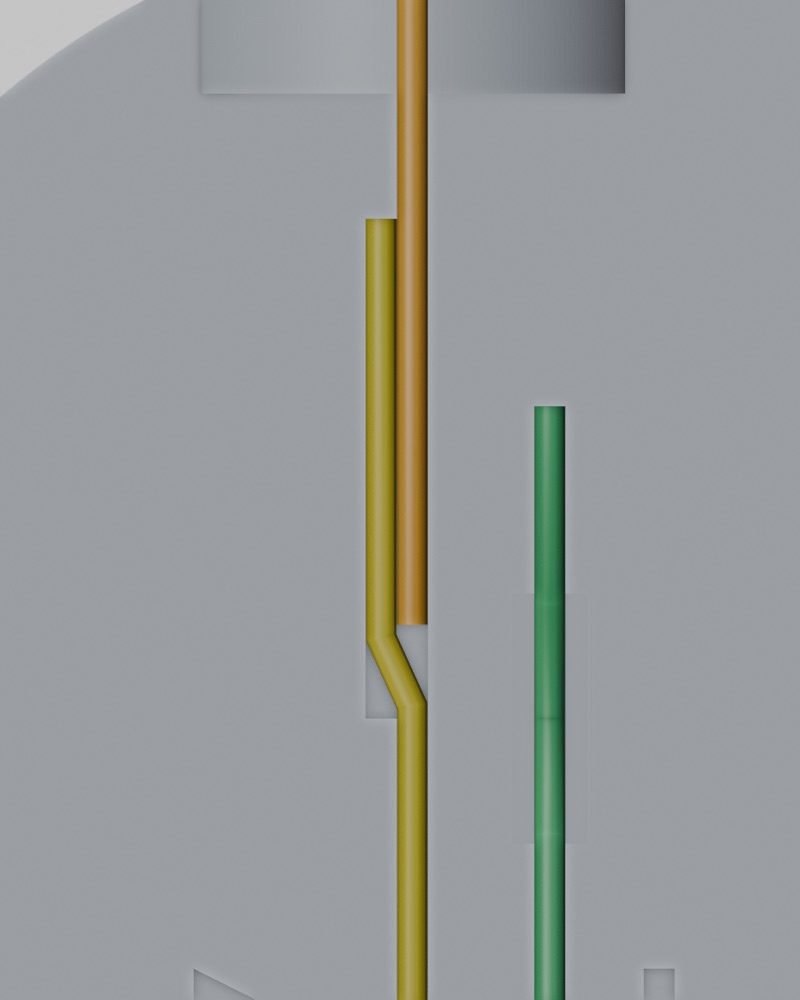
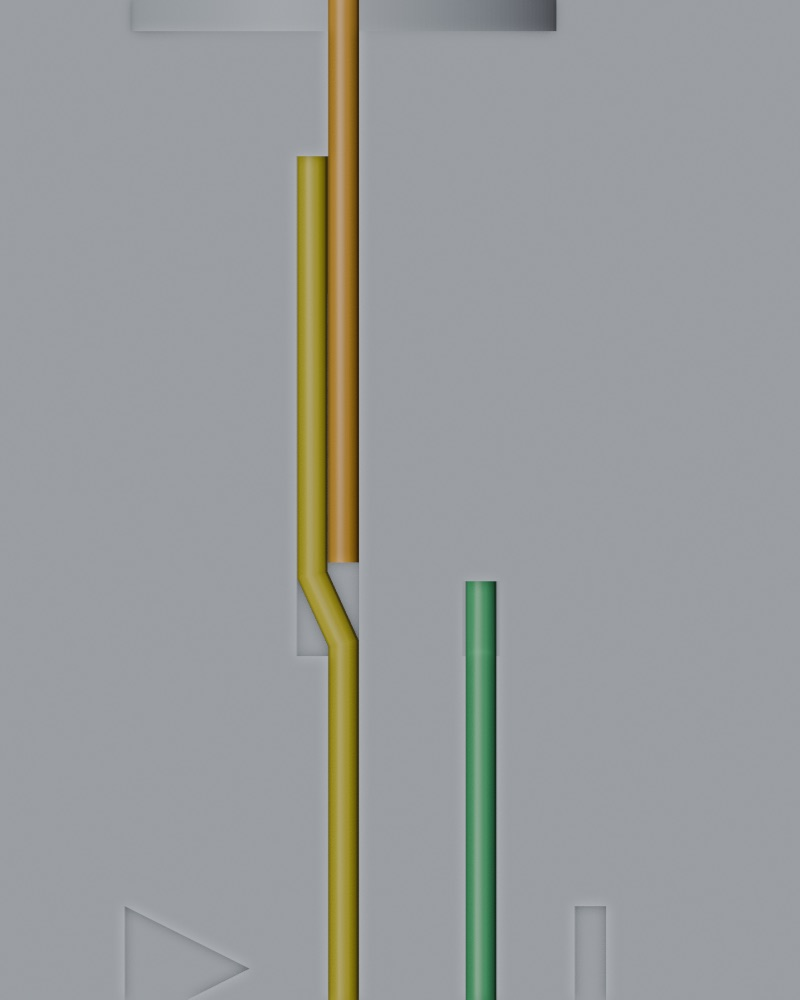
철사 B (−) 접점을 천장 홈 선 접촉으로 변경
V자 창은 철사를 붙잡을 곳이 없고, ㄱ자 핀 구멍은 한 점만 닿아 접촉이 부족했다.
철사 B가 통과 구멍(0.6 x 1.2mm)을 비스듬히 지나 포켓 천장 안쪽 접촉 홈
(폭 0.6, 깊이 0.45, 길이 4.4mm)에 눕고, 배터리 (−) 면에 선으로 닿는다.

- cad/: 통과 구멍 + 천장 접촉 홈, 검사에 통과 구멍 크기와 (−) 접촉 길이 추가
- docs/assembly.md, README: 계단(크랭크) 꺾기 조립법, 필요한 철사 길이
- docs/images: 철사 연결 그림 7장 다시 렌더링

diff --git a/cad/check_tester.py b/cad/check_tester.py
@@ -13,9 +13,9 @@ sys.path.insert(0, os.path.dirname(os.path.abspath(__file__)))
 
 import Mesh
 
-from params import (BACK_T, BATTERY_D, BATTERY_T, BOSS_TOP, GROOVE_W, INSULATION_MIN, LED_CLEAR,
-                    LED_FLANGE_D, LED_Z, NEG_SAFE_R, POCKET_CLEAR_D, POCKET_CLEAR_T, PROBE_SPACING,
-                    SEAT_DEPTH)
+from params import (BACK_T, BATTERY_D, BATTERY_T, BOSS_TOP, FRONT_T, GROOVE_DEPTH, GROOVE_W,
+                    INSULATION_MIN, LED_CLEAR, LED_FLANGE_D, LED_Z, NEG_CONTACT_LEN, NEG_PASS_LEN,
+                    NEG_PIN_W, NEG_SAFE_R, POCKET_CLEAR_D, POCKET_CLEAR_T, PROBE_SPACING, SEAT_DEPTH)
 
 ROOT = os.path.dirname(os.path.dirname(os.path.abspath(__file__)))
 STL = os.path.join(ROOT, "stl", "tester.stl")
@@ -92,7 +92,7 @@ try:
     expect("끝 B 홈 폭", b1 - b0, GROOVE_W)
     report.append(f"끝 A–B {spacing:.3f}")
 
-    # 철사 A·B 홈 아래 절연층, 그리고 (−) 면 창의 위치
+    # 철사 A·B 홈 아래 절연층, 그리고 (−) 접점 구멍의 위치
     xa, xb = -PROBE_SPACING / 2, PROBE_SPACING / 2
     lines = {"철사 A": xa + JIT, "철사 A 이음부": xa - GROOVE_W + JIT, "철사 B": xb + JIT}
     r_in = (BATTERY_D + POCKET_CLEAR_D) / 2 - 0.3
@@ -105,29 +105,49 @@ try:
             sp = spans(mesh, x, y, 0, "z")
             above = [s for s in sp if s[0] >= pocket_top - 0.05]
             if not above or above[0][0] > pocket_top + 0.05:
-                windows.append((name, x, y))       # 포켓 천장이 뚫린 곳 = 창
+                windows.append((name, x, y))       # 포켓 천장이 열린 곳 (철사 B의 통과 구멍·접촉 홈)
                 continue
             thinnest = min(thinnest, above[0][1] - above[0][0])
             at_least(f"{name} 절연층 (y={y:.2f})", above[0][1] - above[0][0], INSULATION_MIN)
     report.append(f"절연 최소 {thinnest:.2f}")
-
-    # 포켓 위 앞판을 관통하는 구멍은 (−) 면 안쪽(NEG_SAFE_R)의 창뿐이어야 한다
-    z_plate = pocket_top + 0.35
-    holes = 0
-    for i in range(int(2 * r_in / 0.2)):
-        y = -r_in + i * 0.2 + JIT
-        for x0, x1 in gaps(spans(mesh, 0, y, z_plate, "x")):
-            if abs(x0) > r_in or abs(x1) > r_in:
-                continue
-            holes += 1
-            far = max(math.hypot(x0, y), math.hypot(x1, y))
-            if far > NEG_SAFE_R:
-                raise AssertionError(f"앞판 구멍이 (−) 안전 반경 밖: ({x0:.2f}~{x1:.2f}, {y:.2f}) r={far:.2f}")
-    if not holes or not any(n == "철사 B" for n, _, _ in windows):
-        raise AssertionError("철사 B 선 위에 (−) 접점 창이 없음")
     if any(n != "철사 B" for n, _, _ in windows):
         raise AssertionError(f"철사 A 선에서 포켓이 드러남: {[w for w in windows if w[0] != '철사 B'][:3]}")
-    report.append(f"창 {holes}줄 ≤ r{NEG_SAFE_R:g}")
+
+    # ③ 철사 B 경로의 두 부분을 따로 잰다.
+    #  (1) 앞판을 관통하는 구멍: 철사 B 선 위의 통과 구멍 하나뿐, 폭 NEG_PIN_W, 길이 ≤ NEG_PASS_LEN
+    #      (큰 창에 V자로 꺾으면 붙잡을 곳이 없어 고정되지 않는다)
+    #  (2) 포켓 천장의 열린 곳: 전부 (−) 안전 반경 안, 철사 B 선을 따라 길이 NEG_PASS_LEN + NEG_CONTACT_LEN
+    #      (꽂힌 끝 한 점이 아니라 선으로 (−) 면에 닿아야 접촉이 충분하다)
+    groove_floor = pocket_top + FRONT_T - GROOVE_DEPTH
+    through = []
+    for i in range(int(2 * r_in / 0.1)):
+        y = -r_in + i * 0.1 + JIT
+        for x0, x1 in gaps(spans(mesh, 0, y, groove_floor - 0.1, "x")):
+            if abs(x0) > r_in or abs(x1) > r_in:
+                continue
+            if max(math.hypot(x0, y), math.hypot(x1, y)) > NEG_SAFE_R:
+                raise AssertionError(f"앞판 관통 구멍이 (−) 안전 반경 밖: ({x0:.2f}~{x1:.2f}, {y:.2f})")
+            if not x0 < xb < x1:
+                raise AssertionError(f"철사 B 선이 아닌 곳에 앞판 관통 구멍: ({x0:.2f}~{x1:.2f}, {y:.2f})")
+            expect(f"통과 구멍 폭 (y={y:.2f})", x1 - x0, NEG_PIN_W)
+            through.append(y)
+    if not through:
+        raise AssertionError("철사 B 선 위에 통과 구멍이 없음")
+    if max(through) - min(through) > NEG_PASS_LEN:
+        raise AssertionError(f"통과 구멍 길이가 {NEG_PASS_LEN}mm보다 김: {min(through):.2f}~{max(through):.2f}")
+
+    ceiling = pocket_top + 0.1
+    for i in range(int(2 * r_in / 0.2)):
+        y = -r_in + i * 0.2 + JIT
+        for x0, x1 in gaps(spans(mesh, 0, y, ceiling, "x")):
+            if abs(x0) > r_in or abs(x1) > r_in:
+                continue
+            if max(math.hypot(x0, y), math.hypot(x1, y)) > NEG_SAFE_R:
+                raise AssertionError(f"포켓 천장 열린 곳이 (−) 안전 반경 밖: ({x0:.2f}~{x1:.2f}, {y:.2f})")
+    run = max((g for g in gaps(spans(mesh, xb + JIT, 0, ceiling, "y")) if abs(g[0]) < r_in and abs(g[1]) < r_in),
+              key=lambda g: g[1] - g[0], default=(0, 0))
+    at_least("(−) 면 접촉 홈 길이 (통과 구멍 포함)", run[1] - run[0], NEG_PASS_LEN + NEG_CONTACT_LEN)
+    report.append(f"통과 구멍 {NEG_PIN_W:g}mm · (−) 접촉 {run[1] - run[0] - NEG_PASS_LEN:.1f}mm ≤ r{NEG_SAFE_R:g}")
 
     # LED 플랜지 자리 지름
     g = gap_at(spans(mesh, 0, BOSS_TOP - SEAT_DEPTH / 2 + JIT, LED_Z + JIT, "x"), xa)

diff --git a/cad/tester.py b/cad/tester.py
@@ -4,7 +4,7 @@
 #
 # 좌표는 params.py 참고. 인쇄는 뒷면(Z=0)을 바닥에 두고 눕혀서 한다.
 # 전류 경로: 배터리 뒷면(+) → ② 애노드 다리 → LED → ① 철사 A → 끝 A → 측정 대상 다이오드
-#            → 끝 B → 철사 B → ③ 창 → 배터리 앞면(−)
+#            → 끝 B → 철사 B → ③ 통과 구멍 → 천장 접촉 홈 → 배터리 앞면(−)
 import os
 import sys
 
@@ -15,8 +15,8 @@ import MeshPart
 import Part
 
 from params import (BACK_T, BATTERY_D, BATTERY_T, BOSS_TOP, FRONT_T, GROOVE_DEPTH, GROOVE_W,
-                    LED_CLEAR, LED_FLANGE_D, LED_Z, POCKET_CLEAR_D, POCKET_CLEAR_T, PROBE_SPACING,
-                    SEAT_DEPTH)
+                    LED_CLEAR, LED_FLANGE_D, LED_Z, NEG_CONTACT_LEN, NEG_PASS_LEN, NEG_PIN_W,
+                    POCKET_CLEAR_D, POCKET_CLEAR_T, PROBE_SPACING, SEAT_DEPTH)
 
 V = App.Vector
 ROOT = os.path.dirname(os.path.dirname(os.path.abspath(__file__)))
@@ -46,9 +46,8 @@ SPLICE_Y = (-1.0, 7.0)   # ① 압착 이음부: LED 캐소드 다리와 연장 
 ANODE_W = 0.8            # ② 애노드 다리 홈 폭
 ANODE_DEPTH = 0.45       # ② 뒷벽 안쪽 홈 깊이 (다리가 0.05mm 튀어나와 배터리를 누른다)
 ANODE_Y_END = -4.0
-WINDOW_W = 1.2           # ③ (−) 접점 창
-WINDOW_Y = (-3.0, 1.0)
-WIRE_B_Y_TOP = 4.0       # 철사 B 홈 위쪽 끝 (창 위 3mm에서 철사 끝을 붙잡는다)
+PASS_Y0 = -1.0           # ③ 통과 구멍 아래쪽 끝. 철사 B는 홈 B를 올라와 여기서 비스듬히 앞판을 지나
+CONTACT_DEPTH = 0.45     #   천장 안쪽 접촉 홈에 눕는다 (깊이 0.45 → 다리가 0.05mm 튀어나와 (−) 면을 누른다)
 
 NOSE_BASE_Y = -9.0
 NOSE_BASE_W = 10.0
@@ -101,9 +100,12 @@ def build():
         box(WIRE_A_X - hw, WIRE_A_X + hw, Y_TIP - 1, SEAT_Y0 + 0.01, GROOVE_Z, 20),
         box(WIRE_A_X - hw - GROOVE_W, WIRE_A_X + hw, SPLICE_Y[0], SPLICE_Y[1], GROOVE_Z, 20),
         box(WIRE_A_X - 0.5, WIRE_A_X + 0.5, FUNNEL_Y0, SEAT_Y0 + 0.01, LED_Z + 0.8, 20),
-        # 철사 B: 앞면 홈 + ③ (−) 접점 창
-        box(WIRE_B_X - hw, WIRE_B_X + hw, Y_TIP - 1, WIRE_B_Y_TOP, GROOVE_Z, 20),
-        box(WIRE_B_X - WINDOW_W / 2, WIRE_B_X + WINDOW_W / 2, WINDOW_Y[0], WINDOW_Y[1], POCKET_Z1 - 0.1, 20),
+        # 철사 B: 앞면 홈 B → ③ 통과 구멍 → 포켓 천장 안쪽 접촉 홈 (구멍 위쪽으로 NEG_CONTACT_LEN)
+        box(WIRE_B_X - hw, WIRE_B_X + hw, Y_TIP - 1, PASS_Y0 + NEG_PASS_LEN, GROOVE_Z, 20),
+        box(WIRE_B_X - NEG_PIN_W / 2, WIRE_B_X + NEG_PIN_W / 2, PASS_Y0, PASS_Y0 + NEG_PASS_LEN,
+            POCKET_Z1 - 0.1, 20),
+        box(WIRE_B_X - NEG_PIN_W / 2, WIRE_B_X + NEG_PIN_W / 2, PASS_Y0, PASS_Y0 + NEG_PASS_LEN + NEG_CONTACT_LEN,
+            POCKET_Z1 - 0.1, POCKET_Z1 + CONTACT_DEPTH),
         # ② 애노드: 깔때기 → 위쪽 벽 속 터널 → 뒷벽 안쪽 홈
         box(WIRE_A_X - 0.5, WIRE_A_X + 0.5, FUNNEL_Y0, SEAT_Y0 + 0.01, 0.55, LED_Z - 0.7),
         box(WIRE_A_X - ANODE_W / 2, WIRE_A_X + ANODE_W / 2, BOSS_Y0 + 0.5, FUNNEL_Y0 + 0.01, 0.55, 1.35),

diff --git a/cad/params.py b/cad/params.py
@@ -11,7 +11,10 @@ BATTERY_D = 20.0      # CR2025 지름
 BATTERY_T = 2.5       # CR2025 두께
 POCKET_CLEAR_D = 0.4  # 배터리 포켓 지름 여유
 POCKET_CLEAR_T = 0.3  # 배터리 포켓 두께 여유
-NEG_SAFE_R = 6.0      # (−) 면 접점 창이 들어가야 하는 반경 (실제 배터리의 평평한 (−) 면을 재서 확인할 것)
+NEG_SAFE_R = 6.0      # (−) 면 접점 구멍이 들어가야 하는 반경 (실제 배터리의 평평한 (−) 면을 재서 확인할 것)
+NEG_PIN_W = 0.6       # ③ 철사 B 통과 구멍과 천장 접촉 홈의 폭
+NEG_PASS_LEN = 1.2    # ③ 통과 구멍 길이 (철사가 비스듬히 꺾여 앞판을 지나간다)
+NEG_CONTACT_LEN = 4.4 # ③ 통과 구멍 위쪽으로 이어지는 천장 접촉 홈 길이 (−) 면에 선으로 닿는 구간
 INSULATION_MIN = 0.4  # 철사 홈과 배터리 포켓 사이 최소 플라스틱 두께
 
 # 표시 LED (5mm). 플랜지가 다리 쪽에 있어 밖에서 압입할 수 없으므로 플랜지 자리로 받친다.

diff --git a/README.md b/README.md
@@ -14,7 +14,7 @@ CR2025 LED Tester - 3D Printer
 | 🔴 빨강 | **② 애노드 다리**: LED 긴 다리 | 뒤쪽 터널 → 배터리 자리 안쪽 뒷벽 홈 → 배터리 **뒷면(+)** |
 | 🟠 주황 | **캐소드 다리**: LED 짧은 다리 | 앞면 홈 A → ① 이음부 |
 | 🟡 노랑 | **① 연장 다리 A**: 잘라낸 다리 1가닥 | 이음부에서 주황과 나란히 → 노즈 끝 **A** (▶ 쪽) |
-| 🟢 초록 | **③ 철사 B**: 잘라낸 다리 1가닥 | 홈 B → 창에서 V자 → 배터리 **앞면(−)**, 노즈 끝 **B** (\| 쪽) |
+| 🟢 초록 | **③ 철사 B**: 잘라낸 다리 1가닥 | 노즈 끝 **B** (\| 쪽) → 홈 B → ③ 통과 구멍 → 천장 접촉 홈에서 배터리 **앞면(−)**에 선으로 닿음 |
 
 ### 완성된 모습 (정면, 홈이 있는 면)
 
@@ -22,7 +22,7 @@ CR2025 LED Tester - 3D Printer
 
 - 맨 위가 **LED**입니다. 주황 캐소드 다리가 앞면 **홈 A**로 내려옵니다.
 - 홈이 두 배로 넓은 구간이 **① 이음부**입니다. 여기서 노랑 연장 다리가 주황 옆에 나란히 눌려 이어지고, 노즈 끝 **A**까지 내려갑니다.
-- 초록 철사 B는 오른쪽 홈 B에 들어갑니다. 가운데 회색 사각형이 **③ 창**이고, 여기서 V자로 꺾여 배터리를 누릅니다. 끝은 노즈 **B**입니다.
+- 초록 철사 B는 오른쪽 홈 B에 들어갑니다. 홈 B가 끝나는 곳의 작은 구멍이 **③ 통과 구멍**입니다. 철사 B의 끝 5mm는 이 구멍을 비스듬히 지나 앞판 안쪽 천장의 접촉 홈에 눕고, 배터리 (−) 면에 선으로 닿습니다. 반대쪽 끝은 노즈 **B**입니다.
 - 빨강 애노드 다리는 앞판에 가려 정면에서는 보이지 않습니다. 아래 2단계의 단면 그림을 보세요.
 
 전류는 다음 순서로 흐릅니다.
@@ -57,21 +57,22 @@ CR2025 LED Tester - 3D Printer
 
 두 다리가 약 6mm 맞붙어 전기가 통합니다.
 
-### 4. ③ 철사 B: 창에서 V자 (단면)
+### 4. ③ 철사 B: 통과 구멍을 지나 천장 홈에 눕히기 (단면)
 
-<img src="docs/images/wiring-s4_side_b.jpg" width="260" alt="철사 B 줄에서 자른 단면: 창으로 들어간 V자">
+<img src="docs/images/wiring-s4_side_b.jpg" width="260" alt="철사 B 줄에서 자른 단면: 통과 구멍을 지나 천장 홈에 누운 끝 5mm">
 
 철사 B 줄에서 자른 단면입니다. 왼쪽이 앞, 오른쪽이 뒤이고, 가운데 진한 회색이 배터리입니다.
 
-- **초록**을 홈 B 위쪽 끝(창 위 3mm)부터 눌러 넣습니다.
-- **창 위치에서 V자로 꺾어** 창 안으로 약 1mm 들어가게 합니다. 배터리를 넣으면 V자 끝이 배터리 **앞면(−)**을 누릅니다.
-- 나머지는 노즈 끝까지 넣고, 1.5mm 남겨 사선으로 자릅니다.
+- 잘라낸 다리의 한쪽 끝에서 **약 5mm**, **약 6mm** 되는 두 곳을 반대 방향으로 조금씩 꺾어 **계단(크랭크) 모양**을 만듭니다. 끝 5mm가 나머지보다 약 0.9mm 낮아집니다.
+- 끝 5mm를 ③ 통과 구멍으로 **위쪽을 향해 비스듬히** 밀어 넣습니다. 그다음 슬롯 쪽에서 핀셋으로 천장 안쪽 **접촉 홈**에 눌러 눕힙니다.
+- 배터리를 넣으면 뒤쪽 빨강의 휨이 배터리를 앞으로 밀어, 누운 약 4.4mm 구간 전체가 배터리 **앞면(−)**에 **선으로** 닿습니다.
+- 나머지는 구멍에서 **노즈 쪽으로** 홈 B를 따라 눌러 넣고, 1.5mm 남겨 사선으로 자릅니다.
 
 ### 5. 배터리는 맨 마지막 → 오른쪽 슬롯
 
 <img src="docs/images/wiring-s5_battery.jpg" width="380" alt="배터리를 오른쪽 슬롯으로 밀어 넣기">
 
-각인이 있는 **(+) 면을 뒤(바닥 쪽)**, 작은 **(−) 면을 앞(창 쪽)**으로 두고, 정면에서 볼 때 **오른쪽 옆 틈**으로 밀어 넣습니다. 배터리는 빨강 스프링과 초록 V자 사이로 들어가고, 뒷판의 턱을 넘으면서 **딸깍** 걸립니다. 배터리를 먼저 넣으면 빨강과 초록을 넣을 수 없습니다.
+각인이 있는 **(+) 면을 뒤(바닥 쪽)**, 작은 **(−) 면을 앞(홈 쪽)**으로 두고, 정면에서 볼 때 **오른쪽 옆 틈**으로 밀어 넣습니다. 배터리는 빨강 스프링과 천장에 누운 초록 사이로 들어가고, 뒷판의 턱을 넘으면서 **딸깍** 걸립니다. 배터리를 먼저 넣으면 빨강과 초록을 넣을 수 없습니다.
 
 ### 6. 뒷면: 배터리 빼기와 자가 진단
 
@@ -84,5 +85,5 @@ CR2025 LED Tester - 3D Printer
 판정 규칙, 인쇄 설정, 문제 해결은 [docs/assembly.md](docs/assembly.md)에 있습니다.
 
 ```
-LED 다리 벌리기 → LED 꽂기·빨강 → 주황 자르기·노랑 잇기 → 초록 V자 → 배터리 → 자가 진단
+LED 다리 벌리기 → LED 꽂기·빨강 → 주황 자르기·노랑 잇기 → 초록 계단 꺾기·천장 홈 → 배터리 → 자가 진단
 ```
